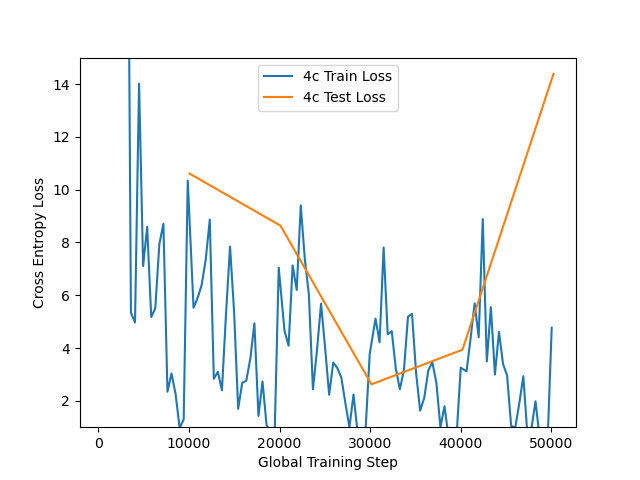
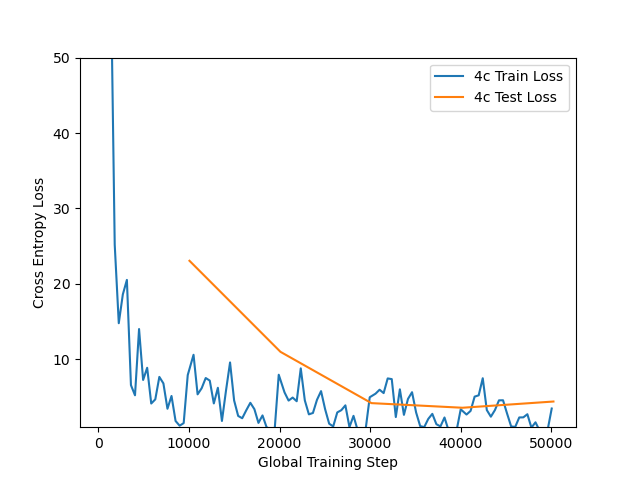
fixed

diff --git a/assignment 1/task4.py b/assignment 1/task4.py
@@ -70,10 +70,17 @@ trainer = Trainer(
     loss_function=loss_function,
     optimizer=optimizer
 )
-# train_loss_dict, test_loss_dict = trainer.train(num_epochs)
+train_loss_dict, test_loss_dict = trainer.train(num_epochs)
 
+torch.save(model.state_dict(), "saved_model.torch")
+final_loss, final_acc = utils.compute_loss_and_accuracy(
+    dataloader_test, model, loss_function)
+print(f"Final Test loss: {final_loss}. Final Test accuracy: {final_acc}")
 
 # Task4 (a) normalized version:
+torch.random.manual_seed(0)
+np.random.seed(0)
+
 image_transform_normalized = torchvision.transforms.Compose([
     torchvision.transforms.ToTensor(),torchvision.transforms.Normalize(0.5,0.5)
 ])
@@ -100,38 +107,42 @@ train_loss_dict_normalized, test_loss_dict_normalized = trainer_normalized.train
 # We can now plot the training loss with our utility script
 
 # Plot loss
-# utils.plot_loss(train_loss_dict, label="Train Loss")
-# utils.plot_loss(test_loss_dict, label="Test Loss")
+utils.plot_loss(train_loss_dict, label="Train Loss")
+utils.plot_loss(test_loss_dict, label="Test Loss")
 # Task4 (a)
-# utils.plot_loss(train_loss_dict_normalized, label="Normalized Train Loss")
-# utils.plot_loss(test_loss_dict_normalized, label="Normalized Test Loss")
+utils.plot_loss(train_loss_dict_normalized, label="Normalized Train Loss")
+utils.plot_loss(test_loss_dict_normalized, label="Normalized Test Loss")
 
-# # Limit the y-axis of the plot (The range should not be increased!)
-# plt.ylim([0, 1])
-# plt.legend()
-# plt.xlabel("Global Training Step")
-# plt.ylabel("Cross Entropy Loss")
-# plt.savefig("image_solutions/task_4c.png")
+# Limit the y-axis of the plot (The range should not be increased!)
+plt.ylim([0, 1])
+plt.legend()
+plt.xlabel("Global Training Step")
+plt.ylabel("Cross Entropy Loss")
+plt.savefig("image_solutions/task_4c.png")
 
-# plt.show()
+plt.show()
 
 torch.save(model_normalized.state_dict(), "saved_model.torch")
 final_loss_normalzied, final_acc_normalized = utils.compute_loss_and_accuracy(
     dataloader_test_normalized, model_normalized, loss_function)
 avg_loss_normalized = sum(test_loss_dict_normalized.values()) / float(len(test_loss_dict_normalized))
-
-print(f"Average Test loss: {avg_loss_normalized}. Final Test accuracy: {final_acc_normalized}")
+print(f"Average test loss of original model: {avg_loss_normalized}.")
+print(f"Final Test loss: {final_loss_normalzied}. Final Test accuracy: {final_acc_normalized}")
 
 
 # Task4 (b)
 weight = list(model_normalized.children())[1].weight.cpu().data
 for num in range(10):
     num_weight = weight[num].reshape(28,28)
-    # plt.imshow(num_weight,cmap="gray")
+    plt.imshow(num_weight,cmap="gray")
+    plt.show()
     
 
 
 # Task4 (c) new learning rate:
+torch.random.manual_seed(0)
+np.random.seed(0)
+
 learning_rate_4c = 1.0
 
 image_transform_4c = torchvision.transforms.Compose([
@@ -156,16 +167,15 @@ trainer_4c = Trainer(
 )
 train_loss_dict_4c, test_loss_dict_4c = trainer_4c.train(num_epochs)
 
+
 # We can now plot the training loss with our utility script
 
 # Plot loss
 utils.plot_loss(train_loss_dict_4c, label="4c Train Loss")
 utils.plot_loss(test_loss_dict_4c, label="4c Test Loss")
-# utils.plot_loss(train_loss_dict_normalized, label="Normalized Train Loss")
-# utils.plot_loss(test_loss_dict_normalized, label="Normalized Test Loss")
 
 # Limit the y-axis of the plot (The range should not be increased!)
-plt.ylim([1, 15])
+plt.ylim([1, 50])
 plt.legend()
 plt.xlabel("Global Training Step")
 plt.ylabel("Cross Entropy Loss")
@@ -177,5 +187,88 @@ torch.save(model_4c.state_dict(), "saved_model_4c.torch")
 final_loss_4c, final_acc_4c = utils.compute_loss_and_accuracy(
     dataloader_test_4c, model_4c, loss_function)
 avg_loss_4c = sum(test_loss_dict_4c.values()) / float(len(test_loss_dict_4c))
+print(f"Average test loss of 4c: {avg_loss_4c}.")
+print(f"Final Test loss: {final_loss_4c}. Final Test accuracy: {final_acc_4c}")
 
-print(f"Average Test loss: {avg_loss_4c}. Final Test accuracy: {final_acc_4c}")
+
+# Task 4 (d)
+torch.random.manual_seed(0)
+np.random.seed(0)
+
+image_transform_4d = torchvision.transforms.Compose([
+    torchvision.transforms.ToTensor(),
+])
+dataloader_train_4d, dataloader_test_4d = dataloaders.load_dataset(
+    batch_size, image_transform_4d)
+example_images_4d, _4d = next(iter(dataloader_train_4d))
+print(f"The tensor containing the images has shape: {example_images_4d.shape} (batch size, number of color channels, height, width)",
+      f"The maximum value in the image is {example_images_4d.max()}, minimum: {example_images_4d.min()}", sep="\n\t")
+
+def create_model_4d():
+    """
+        Initializes the mode. Edit the code below if you would like to change the model.
+    """
+    model = nn.Sequential(
+        
+        nn.Flatten(),  # Flattens the image from shape (batch_size, C, Height, width) to (batch_size, C*height*width)
+        nn.ReLU(inplace=False),
+        nn.Linear(28*28*1, 64),
+        nn.Linear(64,10),
+        
+        # No need to include softmax, as this is already combined in the loss function
+    )
+    # Transfer model to GPU memory if a GPU is available
+    model = utils.to_cuda(model)
+    return model
+
+
+model_4d = create_model_4d()
+
+
+# Test if the model is able to do a single forward pass
+example_images_4d = utils.to_cuda(example_images_4d)
+output_4d = model_4d(example_images_4d)
+print("Output shape:", output_4d.shape)
+expected_shape_4d = (batch_size, 10)  # 10 since mnist has 10 different classes
+assert output_4d.shape == expected_shape_4d,    f"Expected shape: {expected_shape_4d}, but got: {output_4d.shape}"
+
+# Define optimizer (Stochastic Gradient Descent)
+optimizer_4d = torch.optim.SGD(model_4d.parameters(),
+                            lr=learning_rate)
+
+
+trainer_4d = Trainer(
+    model=model_4d,
+    dataloader_train=dataloader_train_4d,
+    dataloader_test=dataloader_test_4d,
+    batch_size=batch_size,
+    loss_function=loss_function,
+    optimizer=optimizer_4d
+)
+train_loss_dict_4d, test_loss_dict_4d = trainer_4d.train(num_epochs)
+
+torch.save(model_4d.state_dict(), "saved_model.torch")
+final_loss_4d, final_acc_4d = utils.compute_loss_and_accuracy(
+    dataloader_test_4d, model_4d, loss_function)
+
+# Plot loss
+utils.plot_loss(train_loss_dict_normalized, label="4a Train Loss")
+utils.plot_loss(test_loss_dict_normalized, label="4a Test Loss")
+utils.plot_loss(train_loss_dict_4d, label="New Train Loss")
+utils.plot_loss(test_loss_dict_4d, label="New Test Loss")
+
+# Limit the y-axis of the plot (The range should not be increased!)
+plt.ylim([0, 1])
+plt.legend()
+plt.xlabel("Global Training Step")
+plt.ylabel("Cross Entropy Loss")
+plt.savefig("image_solutions/task_4d.png")
+
+plt.show()
+
+torch.save(model_4d.state_dict(), "saved_model_4d.torch")
+final_loss_4d, final_acc_4d = utils.compute_loss_and_accuracy(
+    dataloader_test_4d, model_4d, loss_function)
+avg_loss_4d = sum(test_loss_dict_4d.values()) / float(len(test_loss_dict_4d))
+print(f"Average test loss of original model: {avg_loss_4d}.")
+print(f"Final Test loss: {final_loss_4d}. Final Test accuracy: {final_acc_4d}")
